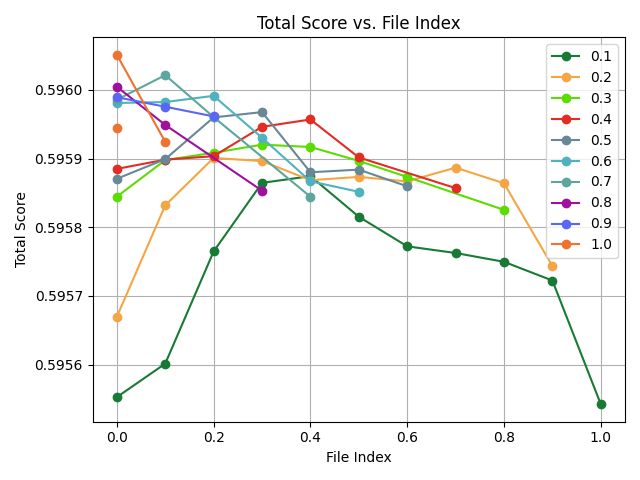
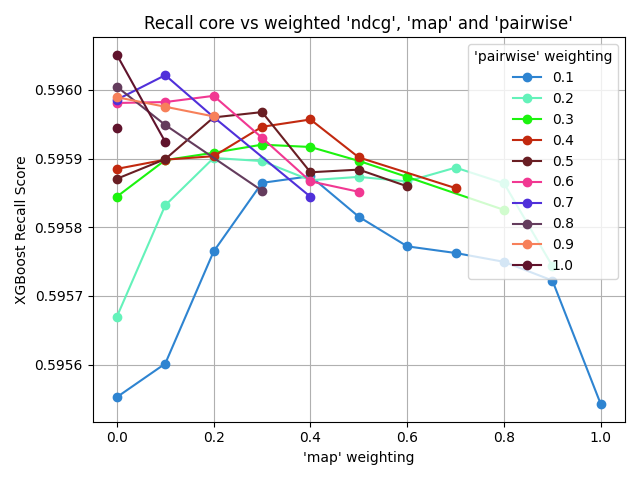
rename axes and title

diff --git a/process/XGBoost/hyperparameter-selection.py b/process/XGBoost/hyperparameter-selection.py
@@ -30,11 +30,11 @@ with open("./output.log", 'r') as file:
                 xx.append(float(line.split('_')[1]))
 
 plt.plot(xx, yy, marker='o', color=col)
-plt.xlabel('File Index')
-plt.ylabel('Total Score')
-plt.title('Total Score vs. File Index')
-plt.legend(legends)
-# plt.xticks(range(len(file_names)), file_names, rotation=45)
+plt.xlabel("'map' weighting")
+plt.ylabel("XGBoost Recall Score")
+plt.title("Recall core vs weighted 'ndcg', 'map' and 'pairwise'")
+plt.legend(legends, title="'pairwise' weighting")
+
 plt.grid(True)
 plt.tight_layout()
 plt.savefig('hyperparameter-selection')
